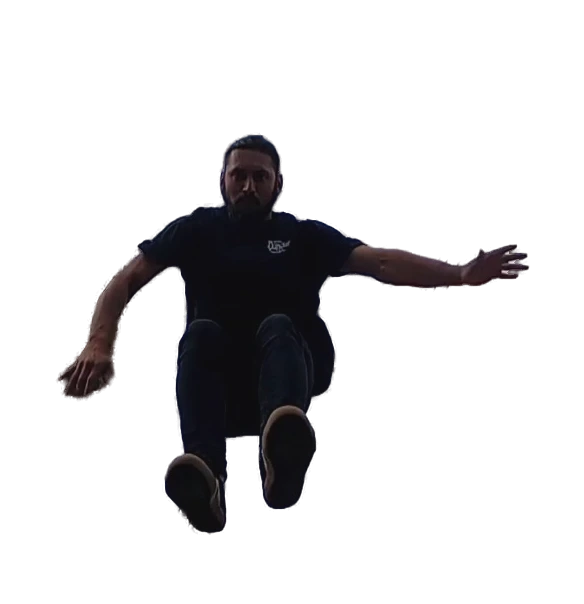
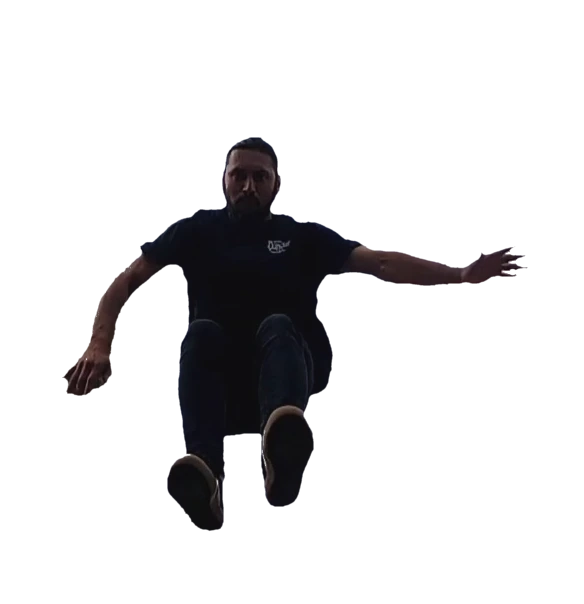
Lab: climb moment round 1
Claude-Session: https://claude.ai/code/session_01RqENhngNCzDFmJWDZueXGV

diff --git a/src/app/lab/moment/momentEngine.js b/src/app/lab/moment/momentEngine.js
@@ -18,9 +18,20 @@ import { createFilm, FILM_PRESETS } from "../_kit/film";
 // Each frame of the jumper is a dense mesh. At time t the first is carried
 // forward t of the way along its flow and the second back (1 - t) of the
 // way along its own, each in its own buffer with a depth test (a hand in
-// front of the chest stays in front), and the two are blended by t. Because
-// both have been moved to the same place, the blend never shows two of him:
-// it is the motion, not a dissolve.
+// front of the chest stays in front). Each mesh vertex also knows how far
+// to trust its own warp: whether its flow, followed all the way, lands on
+// the other frame's body, and whether the other frame's flow from there
+// comes back to it (forward-backward consistency), and how far the warp
+// stretches it. The two buffers are then composited by coverage, not
+// cross-faded by t: the jumper's matte is the union of the two warped
+// mattes, each believed where its warp is trusted, so a limb only one
+// frame covers is there at full strength instead of half there over the
+// sky; colour inside it is weighted by each frame's own warped alpha and
+// trust (and by t). Because both have been moved to the same place, the
+// blend never shows two of him: it is the motion, not a dissolve. The
+// mattes were pulled in 2.5 px at the bake, so only his own pixels travel,
+// and the one soft pixel left at the edge is the only place he meets the
+// plate.
 //
 // While time moves the camera moves too: a small orbit round a point two
 // metres out (where he is), a few degrees, every layer reprojected through
@@ -107,6 +118,8 @@ const SUBJ_VERT = `#version 300 es
 precision highp float;
 in vec2 aGrid;
 uniform sampler2D uMotion;  // rg flow to the other frame, b disparity
+uniform sampler2D uMotionO; // the other frame's flow back to this one
+uniform sampler2D uTexO;    // the other frame (its alpha is its matte)
 uniform vec4 uRect;         // jumper rect, plate px (x0, y0, x1, y1)
 uniform float uRange;
 uniform float uDMax;
@@ -114,9 +127,13 @@ uniform float uW;           // share of the flow travelled
 uniform float uDScale;      // disparity factor at this time
 out vec2 vUv;
 out float vTrust;
+out float vConf;
 ${PROJECT}
 vec2 flowAt(vec2 uv) {
   return (textureLod(uMotion, uv, 0.0).rg * 255.0 - 128.0) / 127.0 * uRange;
+}
+vec2 flowBack(vec2 uv) {
+  return (textureLod(uMotionO, uv, 0.0).rg * 255.0 - 128.0) / 127.0 * uRange;
 }
 void main() {
   vUv = aGrid;
@@ -130,8 +147,33 @@ void main() {
   vec2 dx = (flowAt(aGrid + vec2(tx.x, 0.0)) - flowAt(aGrid - vec2(tx.x, 0.0))) / (2.0 * span.x);
   vec2 dy = (flowAt(aGrid + vec2(0.0, tx.y)) - flowAt(aGrid - vec2(0.0, tx.y))) / (2.0 * span.y);
   float det = (1.0 + uW * dx.x) * (1.0 + uW * dy.y) - uW * dx.y * uW * dy.x;
-  float k = clamp(1.0 / max(det, 1e-3), 0.0, 1.0);
-  vTrust = max(k * k * k, 0.04);
+  // a fold (the warp turning a cell inside out, det < 0: the edge of a
+  // foot overtaking itself) is no more to be trusted than a tear
+  float k = det > 0.0 ? clamp(1.0 / det, 0.0, 1.0) * smoothstep(0.0, 0.25, det) : 0.0;
+  // and a sliver: a cell drawn out one way and squeezed the other keeps
+  // its area (det near 1) but prints as a needle off a shoe's edge. Its
+  // shape, over one texel either side, from the warp's singular values.
+  vec2 t1 = tx * 0.5;
+  vec2 s1 = span * 0.5;
+  vec2 ex = (flowAt(aGrid + vec2(t1.x, 0.0)) - flowAt(aGrid - vec2(t1.x, 0.0))) / (2.0 * s1.x);
+  vec2 ey = (flowAt(aGrid + vec2(0.0, t1.y)) - flowAt(aGrid - vec2(0.0, t1.y))) / (2.0 * s1.y);
+  float ja = 1.0 + uW * ex.x, jb = uW * ey.x, jc = uW * ex.y, jd = 1.0 + uW * ey.y;
+  float q1 = ja * ja + jb * jb + jc * jc + jd * jd;
+  float q2 = sqrt(max(pow(ja * ja + jb * jb - jc * jc - jd * jd, 2.0) + 4.0 * pow(ja * jc + jb * jd, 2.0), 0.0));
+  float sMax = sqrt(0.5 * (q1 + q2));
+  float sMin = sqrt(max(0.5 * (q1 - q2), 1e-6));
+  float shape = (1.0 - smoothstep(1.35, 2.0, sMax)) * (1.0 - smoothstep(1.8, 3.0, sMax / sMin));
+  // flow confidence: followed all the way, this point must land on the
+  // other frame's body, and that frame's flow must bring it back here
+  vec2 size = uRect.zw - uRect.xy;
+  vec2 uvO = aGrid + flow / size;
+  vec2 inside = step(vec2(0.0), uvO) * step(uvO, vec2(1.0));
+  float onBody = smoothstep(0.05, 0.5, textureLod(uTexO, uvO, 1.0).a) * inside.x * inside.y;
+  float err = length(flow + flowBack(uvO));
+  float agree = exp(-err * err / (2.0 * 18.0 * 18.0));
+  float conf = onBody * agree;
+  vTrust = max(k * k * k * mix(0.3, 1.0, conf), 0.02);
+  vConf = conf * smoothstep(0.3, 0.7, k) * shape;
   // nearer wins the depth test
   gl_Position = project(p, d, 1.0 - d);
 }`;
@@ -140,14 +182,19 @@ const SUBJ_FRAG = `#version 300 es
 precision highp float;
 in vec2 vUv;
 in float vTrust;
+in float vConf;
 uniform sampler2D uTex;
-layout(location = 0) out vec4 outColor;  // premultiplied, weighted by trust
-layout(location = 1) out vec4 outCover;  // plain coverage
+layout(location = 0) out vec4 outColor;  // premultiplied
+layout(location = 1) out vec4 outCover;  // r coverage, g flow confidence, b colour trust
 void main() {
   vec4 c = texture(uTex, vUv);
   if (c.a < 0.004) discard;
-  outColor = c * vTrust;
-  outCover = vec4(c.a);
+  outColor = c;
+  outCover = vec4(c.a, vConf, vTrust, 1.0);
+  // the soft edge of a nearer limb loses the depth test to solid body
+  // behind it (the rim of a hand over the chest), so no half-covered pixel
+  // ever opens a seam inside him; where nothing is behind it still lands
+  gl_FragDepth = min(gl_FragCoord.z + (1.0 - c.a) * 0.5, 0.9999);
 }`;
 
 const QUAD_VERT = `#version 300 es
@@ -158,7 +205,16 @@ void main() {
   gl_Position = vec4(aPos, 0.0, 1.0);
 }`;
 
-// The bidirectional blend: both frames already sit where the jumper is at t.
+// The bidirectional composite: both frames already sit where the jumper is
+// at t. His matte is the union of the two warped mattes, not their t-mix:
+// wherever one frame covers him and the other does not (the gap between
+// the legs closing, a sole one frame sees edge-on), the covered one wins at
+// full opacity, so no limb turns to glass over the sky. Each frame's
+// coverage is believed fully near its own end of the half second and,
+// towards the other end, only as far as its flow is trusted, so a finger
+// the flow lost (stretched into streaks, or carried off the other frame's
+// body) drops out and the frame that saw it whole draws it. The two ends
+// stay exactly the shutter frames.
 const BLEND_FRAG = `#version 300 es
 precision highp float;
 in vec2 vUv;
@@ -169,18 +225,26 @@ uniform sampler2D uCB;
 uniform float uT;
 out vec4 outColor;
 void main() {
-  vec4 a = texture(uA, vUv);
+  vec4 a = texture(uA, vUv);   // premultiplied
   vec4 b = texture(uB, vUv);
-  float ca = texture(uCA, vUv).r;
-  float cb = texture(uCB, vUv).r;
-  float wa = (1.0 - uT) * a.a;
-  float wb = uT * b.a;
-  // a sliver only one frame covers (the gap between the legs closing as
-  // they come forward) leans towards being there: half-covered reads as a
-  // translucent ghost, a little extra body never does
-  float m = mix(ca, cb, uT);
-  float alpha = 1.0 - (1.0 - m) * (1.0 - m);
-  vec3 col = (wa + wb) > 1e-6 ? ((1.0 - uT) * a.rgb + uT * b.rgb) / (wa + wb) : vec3(0.0);
+  vec3 qa = texture(uCA, vUv).rgb; // warped coverage, flow confidence, colour trust
+  vec3 qb = texture(uCB, vUv).rgb;
+  float ta = 1.0 - uT;
+  float tb = uT;
+  float ka = mix(smoothstep(0.2, 0.5, qa.g), 1.0, smoothstep(0.2, 0.7, ta)) * smoothstep(0.0, 0.08, ta);
+  float kb = mix(smoothstep(0.2, 0.5, qb.g), 1.0, smoothstep(0.2, 0.7, tb)) * smoothstep(0.0, 0.08, tb);
+  // where both frames cover him he is simply there (a dark shirt gives the
+  // flow little to hold, and two doubtful frames that agree are not two
+  // ghosts); only what one frame alone covers is held to its trust
+  float alpha = max(min(qa.r, qb.r), max(qa.r * ka, qb.r * kb));
+  // colour: each frame by its own warped alpha and trust, then by t; a
+  // pixel only one frame covers takes that frame's colour whole
+  float sa = ta * qa.b;
+  float sb = tb * qb.b;
+  float wa = sa * a.a;
+  float wb = sb * b.a;
+  vec3 col = wa + wb > 1e-5 ? (sa * a.rgb + sb * b.rgb) / (wa + wb)
+    : (a.a + b.a > 1e-5 ? (a.rgb + b.rgb) / (a.a + b.a) : vec3(0.0));
   outColor = vec4(col * alpha, alpha);
 }`;
 
@@ -327,8 +391,9 @@ export async function createMoment(host, { embedded = false } = {}) {
 
   // ---- targets: the scene, and one buffer per shutter frame (with depth)
   const targets = {};
-  // Jumper buffers hold trust-weighted colour, which can be small: half
-  // float where the GPU renders to it.
+  // Jumper buffers: premultiplied colour (half float where the GPU renders
+  // to it, so a soft edge keeps its colour when it is unpremultiplied) and,
+  // beside it, coverage, flow confidence and colour trust.
   const halfOk = !!gl.getExtension("EXT_color_buffer_float");
   const colorTex = (w, h, half) => {
     const t = gl.createTexture();
@@ -507,6 +572,8 @@ export async function createMoment(host, { embedded = false } = {}) {
     gl.uniform1f(progSubj.u.uDMax, scene.dmax);
     gl.uniform1i(progSubj.u.uTex, 0);
     gl.uniform1i(progSubj.u.uMotion, 1);
+    gl.uniform1i(progSubj.u.uMotionO, 2);
+    gl.uniform1i(progSubj.u.uTexO, 3);
     for (const k of ["a", "b"]) {
       gl.bindFramebuffer(gl.FRAMEBUFFER, targets[k].fbo);
       gl.viewport(0, 0, pw, ph);
@@ -517,6 +584,10 @@ export async function createMoment(host, { embedded = false } = {}) {
       gl.bindTexture(gl.TEXTURE_2D, tex[k]);
       gl.activeTexture(gl.TEXTURE1);
       gl.bindTexture(gl.TEXTURE_2D, k === "a" ? tex.ma : tex.mb);
+      gl.activeTexture(gl.TEXTURE2);
+      gl.bindTexture(gl.TEXTURE_2D, k === "a" ? tex.mb : tex.ma);
+      gl.activeTexture(gl.TEXTURE3);
+      gl.bindTexture(gl.TEXTURE_2D, k === "a" ? tex.b : tex.a);
       // raw t: past either end the motion carries on a little (rubber band)
       gl.uniform1f(progSubj.u.uW, k === "a" ? t : 1 - t);
       gl.uniform1f(progSubj.u.uDScale, k === "a" ? 1 + (S - 1) * tt : 1 / S + (1 - 1 / S) * tt);
@@ -549,7 +620,7 @@ export async function createMoment(host, { embedded = false } = {}) {
     gl.bindVertexArray(gNear.vao);
     gl.drawElements(gl.TRIANGLES, gNear.count, gl.UNSIGNED_INT, 0);
 
-    // 3. the jumper over it, both frames blended where they already agree
+    // 3. the jumper over it: one matte (the trusted union), colour blended inside it
     gl.enable(gl.SCISSOR_TEST);
     gl.useProgram(progBlend.p);
     gl.bindVertexArray(quadVao);

diff --git a/tools/depth/bakes/moment/export.py b/tools/depth/bakes/moment/export.py
@@ -17,8 +17,9 @@ Layers, back to front:
                alpha = the sky matte, edges decontaminated.
   depth.png    disparity (1/m) of the near layer, / scene.dmax, pushed out
                past its silhouettes so its mesh never tears or drags sky.
-  a.webp b.webp  the jumper at the two shutter presses, alpha = SAM matte,
-               cropped to the rect both share.
+  a.webp b.webp  the jumper at the two shutter presses, alpha = SAM matte
+               pulled in 2.5 px (less on thin limbs), cropped to the rect
+               both share.
   ma.png mb.png  per crop pixel at half res: R,G = flow to the other shutter
                frame (128 +- 127 = +- scene.flowRange px), B = disparity at
                that frame (/ scene.dmax). No alpha, so a browser never
@@ -55,6 +56,10 @@ GAIN = 0.79  # a third of a stop down, in linear light
 BOX_Z = 2.6
 SUBJ_Z = 2.1
 FILL = 1.32
+NEAR_SOFT = 1.0  # px, Gaussian on the near layer (see below)
+ERODE = 2.5  # px the jumper's matte is pulled in before it is warped
+ERODE_KEEP = 1.5  # px of half-width no erosion may take a limb below
+FEATHER = 1.5  # px, the soft ramp left at the eroded edge
 
 
 def lin(c):
@@ -153,6 +158,13 @@ solid = kit.erode(alpha > 0.97, 1).astype(np.float32)
 inner = kit.pushpull(lin(g), solid)
 F = np.where(a3 < 0.06, inner, F)
 near = np.where((alpha > 0.97)[..., None], lin(g), F)
+# de-sharpen: the GoPro's in-camera sharpening rings every leaf with a dark
+# and a light halo a pixel out and posterises the clusters. A 1 px Gaussian
+# on the near layer's colour (the sky layer and the jumper keep theirs)
+# takes the rings out before the film grade sees them, so its diffusion and
+# halation have a soft edge to work on instead of a crunchy one. The colour
+# is already unmixed from the sky, so blurring it pulls in no blue.
+near = cv2.GaussianBlur(near.astype(np.float32), (0, 0), NEAR_SOFT)
 save_webp(f"{OUT}/near.webp", enc(near), alpha, q=90)
 
 # near disparity
@@ -206,9 +218,55 @@ zA0, zB0 = SUBJ_Z, SUBJ_Z / s_fit
 print("jumper scale A->B", round(s_fit, 4), "z", zA0, "->", round(zB0, 3), "m")
 
 
+def erode_matte(m):
+    """The matte pulled in ERODE px, by signed distance, at 4x for a clean ramp.
+
+    The outer ring of a SAM matte is where the sky was mixed into the edge;
+    carried along the flow it travels with a limb as a pale rim, and where
+    the two frames' rings do not line up they show the plate through as a
+    translucent sliver. Pulled in, every edge pixel is the jumper's own. A
+    finger is only a few px wide, so the erosion is capped by the local
+    half-width (the largest inside distance within 6 px): nothing is thinned
+    below ERODE_KEEP px either side of its middle, and nothing disappears.
+    """
+    h, w = m.shape
+    U = 4
+    mu = cv2.resize(m.astype(np.float32), (w * U, h * U), interpolation=cv2.INTER_LINEAR)
+    inside = (mu > 0.5).astype(np.uint8)
+    din = cv2.distanceTransform(inside, cv2.DIST_L2, 5) / U
+    dout = cv2.distanceTransform(1 - inside, cv2.DIST_L2, 5) / U
+    sd = np.where(inside > 0, din - 0.5 / U, -(dout - 0.5 / U))
+    half = cv2.dilate(din, kit.disk(6 * U))
+    e = np.clip(half - ERODE_KEEP, 0.0, ERODE)
+    a = kit.smoothstep(e - FEATHER / 2, e + FEATHER / 2, sd).astype(np.float32)
+    return cv2.resize(a, (w, h), interpolation=cv2.INTER_AREA)
+
+
 def subject(f, m, flow, moge, z0):
     m = np.clip(kit.guided(f, m, 2, 1e-4), 0, 1)
     m[m < 0.02] = 0
+    # the matte that ships is pulled in; colour, flow and depth below are
+    # all built from the full one, so they reach past the new edge
+    me = erode_matte(m)
+    # sky SAM kept inside him (the slits between the fingers of an open
+    # hand, a sliver under an arm) is keyed out against the clean plate:
+    # where the plate behind is bright sky or cloud and this frame shows
+    # the same colour there, it is not him. Dark plate (the tree) is never
+    # keyed, so a hand against the leaves stays whole.
+    # Motion blur tints those slits pink with his skin, so "the same" is
+    # judged by brightness (he is a silhouette: nothing of him comes within
+    # 75 % of the cloud behind), and held to his outer 10 px, never the
+    # middle of him (the white print on his shirt, over a white cloud).
+    fr = f[:CROP_H]
+    lp = kit.luma(plate)
+    lf = kit.blur(kit.luma(fr).astype(np.float32), 0.6)
+    bright = kit.smoothstep(0.35, 0.5, lp)
+    same = kit.smoothstep(0.68, 0.8, lf / np.maximum(lp, 1e-3))
+    rim = 1 - kit.smoothstep(7, 10, cv2.distanceTransform((m[:CROP_H] > 0.5).astype(np.uint8), cv2.DIST_L2, 5))
+    key = np.ones_like(m)
+    key[:CROP_H] = 1 - bright * same * rim
+    me = me * key
+    me[me < 0.02] = 0
     # a little fill on the jumper (+0.4 stop, more in his shadows), as a
     # reflector on the grass would have given: against a summer sky the
     # GoPro left his skin a muddy grey, and the warm of it is the picture's
@@ -230,14 +288,14 @@ def subject(f, m, flow, moge, z0):
     d = kit.pushpull(d, ((m > 0.9) & v).astype(np.float32))
     d = cv2.medianBlur(d.astype(np.float32), 5)
     d = kit.blur(d, 3)
-    return enc(col)[sl], m[sl], fl[sl], d[sl]
+    return enc(col)[sl], me[sl], fl[sl], d[sl], m[sl]
 
 
-cA, aA, flA, dA = subject(fA, mA, fab, "moge_078", zA0)
-cB, aB, flB, dB = subject(fB, mB, fba, "moge_090", zB0)
+cA, aA, flA, dA, fullA = subject(fA, mA, fab, "moge_078", zA0)
+cB, aB, flB, dB, fullB = subject(fB, mB, fba, "moge_090", zB0)
 save_webp(f"{OUT}/a.webp", cA, aA, q=92)
 save_webp(f"{OUT}/b.webp", cB, aB, q=92)
-RANGE = float(np.ceil(max(np.abs(flA[aA > 0.02]).max(), np.abs(flB[aB > 0.02]).max()) / 8) * 8)
+RANGE = float(np.ceil(max(np.abs(flA[fullA > 0.02]).max(), np.abs(flB[fullB > 0.02]).max()) / 8) * 8)
 ch, cw = (y1 - y0) // 2, (x1 - x0) // 2
 
 
